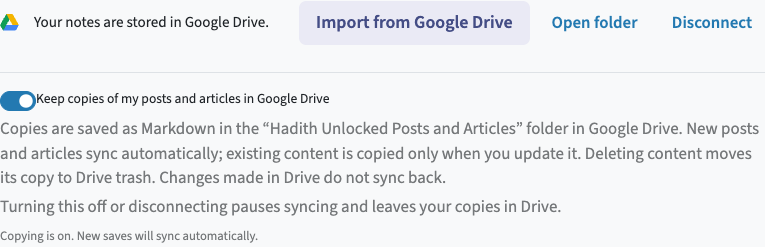
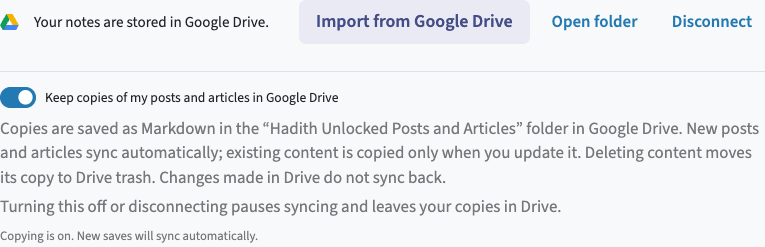
Give labeled switches a consistent gap and audit wrapped labels

diff --git a/docs/design-system/library.html b/docs/design-system/library.html
@@ -40,7 +40,7 @@
       <article><h3>Panel header &amp; toolbar</h3><img src="settings/catalog-toolbar.png" alt="Reciter guidance beside Enable all and the Tile and Full selector"><p>Use <code>ux-panel-header</code> for guidance or a count alongside contextual actions. At 700 px and below, stack the actions beneath the description. Reading catalogs reuse the text action and inset selector. Email preferences uses the same header with a Midnight secondary link.</p></article>
       <article><h3>Nested disclosure</h3><img src="settings/language-disclosure.png" alt="English Tafsirs subsection with a trailing chevron"><p>Use a trailing chevron for both advanced fields and language groups. Advanced limits use native details. A catalog group uses a button with <code>aria-expanded</code> and <code>aria-controls</code> linked to its collapsible list. Keep a single-language catalog flat. See the <a href="#grouped-edits">advanced limits specimen</a>.</p></article>
       <article><h3>Field grid, labels &amp; units</h3><img src="settings/session.png" alt="Labeled numeric fields with a minutes suffix on the time budget"><p>Wrap the fields in <code>ux-fields</code>. Use <code>ux-field-grid</code> for related inputs and selects. Columns fit the available space and align controls below labels of different lengths. Number inputs, select menus, and unit suffixes share a 2.65 rem minimum height. Keep the unit visible next to its value.</p></article>
-      <article><h3>Switches &amp; dependent settings</h3><p>Use the same Bootstrap switch inside <code>ux-fields</code> for catalog inclusion, Drive copies, and auto-recharge. The checked track uses the app’s dark accent blue. Label card switches with the item name and standalone switches with their effect.</p><p>Drive’s switch saves immediately. Auto-recharge groups its switch, threshold, and package under one Save action. Protected catalog entries keep their checked and disabled states. See <a href="#catalog-preferences">catalog preferences</a>.</p></article>
+      <article><h3>Switches &amp; dependent settings</h3><p>Use the same Bootstrap switch inside <code>ux-fields</code> for catalog inclusion, Drive copies, and auto-recharge. The checked track uses the app’s dark accent blue. Label card switches with the item name and standalone switches with their effect. For a visible label, leave a 0.5 rem gap after the track and align wrapped lines under the first word.</p><p>Drive’s switch saves immediately. Auto-recharge groups its switch, threshold, and package under one Save action. Protected catalog entries keep their checked and disabled states. See <a href="#catalog-preferences">catalog preferences</a>.</p></article>
       <article><h3>Connection status &amp; actions</h3><img src="settings/drive-actions.png" alt="Connected Drive status, import and folder actions, and the optional copies switch"><p>Drive combines the existing <a href="#action-hierarchy">action hierarchy</a> with a status message. Show Connect when available. Once connected, show Import, Open folder, and Disconnect. Related actions wrap on small screens. A divider separates the optional copies preference from the connection controls.</p></article>
       <article><h3>Inset cards, balance &amp; activity</h3><img src="settings/payment-fields.png" alt="Points balance, purchase controls, auto-recharge fields, and a point activity entry"><p>Apply <code>ux-inset-card</code> to give a balance, scheduling group, or advanced disclosure the same surface and border. In billing, pair the balance with Buy, keep auto-recharge in a separate form group, and show recent point changes with amount, reason, and date. With an empty ledger, show “No point activity yet.”</p></article>
     </div>

diff --git a/public/static/css/ux-foundations.css b/public/static/css/ux-foundations.css
@@ -112,6 +112,17 @@
   height: 1.12rem;
   cursor: pointer;
 }
+.ux-fields .form-switch:has(> .form-check-label) {
+  display: grid;
+  grid-template-columns: auto minmax(0, 1fr);
+  align-items: start;
+  column-gap: .5rem;
+  padding-inline-start: 0;
+}
+.ux-fields .form-switch:has(> .form-check-label) > .form-check-input {
+  float: none;
+  margin: max(0px, calc((1lh - 1.12rem) / 2)) 0 0;
+}
 .ux-fields .form-switch .form-check-input:disabled { cursor: default; }
 .ux-fields .form-switch .form-check-input:checked {
   background-color: var(--ux-accent);

diff --git a/skills/hadithdb-ux-audit/SKILL.md b/skills/hadithdb-ux-audit/SKILL.md
@@ -22,6 +22,7 @@ Concrete Settings comparisons to carry forward:
 
 - **Fields.** Compare a Review number input and its attached “minutes” suffix with a Billing select and threshold input. Measure rendered heights, check label baselines, and narrow the panel until the grid wraps. Test focus and disabled states.
 - **Switches and actions.** Compare a checked catalog switch with connected Drive and auto-recharge switches. Check the track color, size and visible label. In Drive, exercise disconnected and connected states to reveal the primary Connect, secondary Import, and lightweight folder and disconnect actions.
+- **Control-to-label spacing.** Measure from the painted control edge to the first line of label text in the rendered UI. Padding on a wrapper can be canceled by a floated input or negative margin. Compare a short label with a wrapping one at phone width and enlarged text. Check that continuation lines align with the first word, the switch stays beside the first line, and clicking the label still toggles it.
 - **Toolbars.** Open Reciters, Translations, and Tafsir together. Compare the location of the count or description, Enable all, and the Tile / Full selector where present. Check the alignment again when the rail moves above the content and when all entries are enabled.
 
 Reuse the accepted component or shared CSS owner when the tasks match. Preserve distinctions such as immediate versus explicit save, Quran script typography, and semantic links versus buttons. For a proposed visual direction, record it as a candidate until selected. When a pattern is finalized, add its real specimen, states, implementation hook and consumers to the library, or extend its existing entry.
